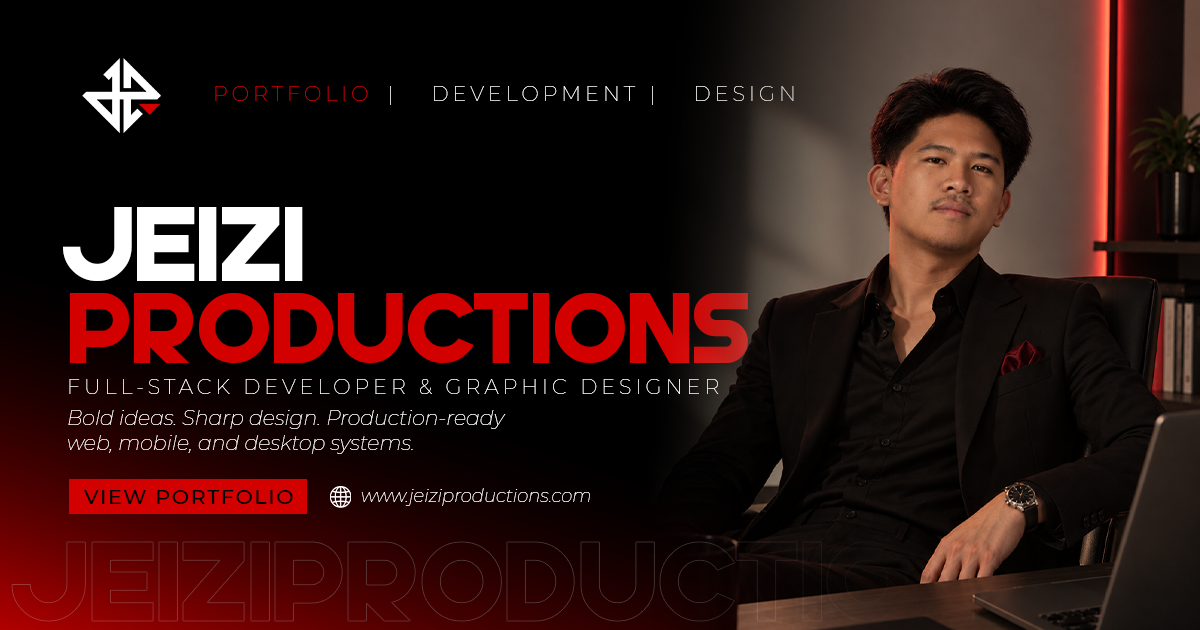
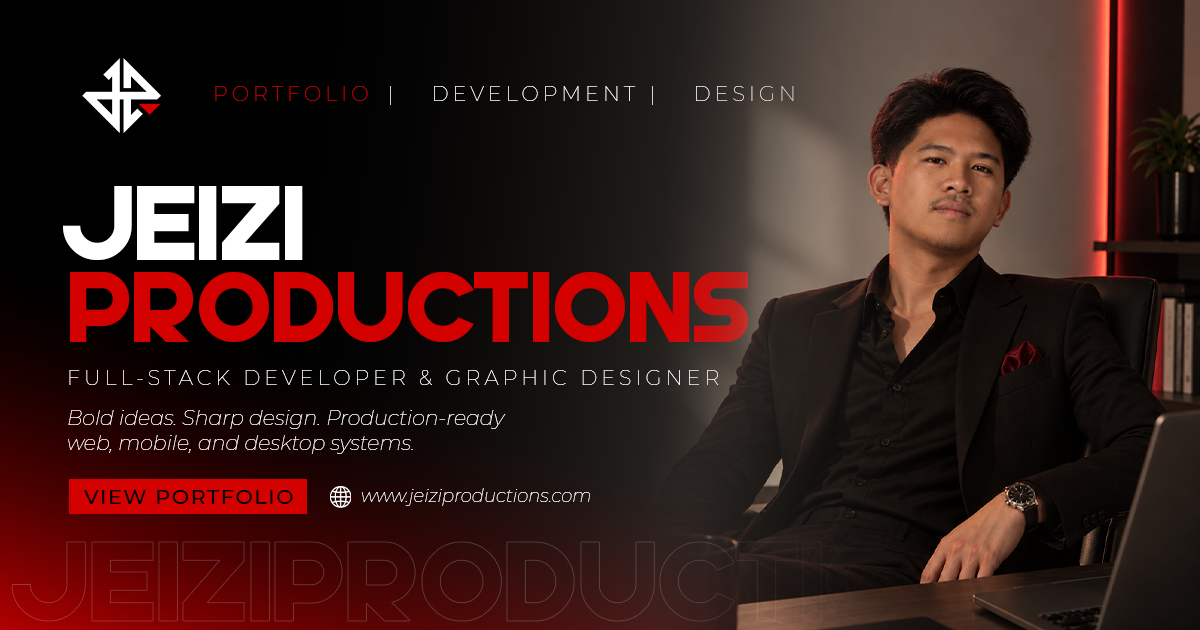
fix: update og image and anchor hero outline to bottom-0

Changed region(s): [[0.0308, 0.0, 0.74, 1.0]]

diff --git a/components/HeroOutlineTypewriter.tsx b/components/HeroOutlineTypewriter.tsx
@@ -62,7 +62,7 @@ export default function HeroOutlineTypewriter() {
 
   return (
     <div
-      className="pointer-events-none absolute bottom-4 left-6 z-0 max-w-[92vw] overflow-hidden select-none sm:bottom-6 sm:left-8 md:bottom-8 md:left-10 lg:bottom-10 lg:left-10"
+      className="pointer-events-none absolute bottom-0 left-6 z-0 max-w-[95vw] overflow-hidden select-none md:left-10"
       aria-hidden="true"
     >
       <span className="text-outline font-display text-[clamp(2.5rem,9.5vw,10.5rem)] font-bold uppercase leading-none tracking-tight whitespace-pre">

diff --git a/docs/harness/HANDOFF.md b/docs/harness/HANDOFF.md
@@ -2,8 +2,8 @@
 
 HANDOFF_VERSION: 1
 UPDATED_AT: 2026-10-03
-AUDITED_COMMIT: 537d1a5
-CURRENT_HEAD: 537d1a5
+AUDITED_COMMIT: 6d411b7
+CURRENT_HEAD: 6d411b7
 STATE: READY
 
 ## PROFESSIONAL IDENTITY HIERARCHY
@@ -13,48 +13,44 @@ STATE: READY
 - BRAND: Jeizi Productions
 - ROLE: Full-Stack Developer & Graphic Designer
 - EMAIL: johnchristopherkingzamora@gmail.com
-- SOCIAL PREVIEW: public/og-jeizi.png (1200x630, 424.94 KB)
+- SOCIAL PREVIEW: public/og-jeizi.png (1200x630, 453.13 KB)
 - PRODUCTION OG URL: https://jeiziproductions.com/og-jeizi.png
 
 ## CURRENT STATUS
 
-1. NAVIGATION SECTION POSITIONING:
+1. HERO OUTLINED TYPEWRITER POSITIONING:
+   - Target: `HeroOutlineTypewriter.tsx` (thin outlined decorative typography spelling "JEIZI PRODUCTIONS").
+   - Position: Anchored flush to the bottom edge of the Hero (`bottom-0 left-6 md:left-10 max-w-[95vw] overflow-hidden select-none z-0`) so it occupies the lowest visual layer with zero bottom gap.
+
+2. NAVIGATION SECTION POSITIONING:
    - Implementation: Reusable `scrollToSection` helper in `lib/scroll.ts` integrated into `Navbar.tsx`.
    - Behavior: Compact sections (About, Contact) are vertically centered within the viewport with comfortable fixed navbar clearance. Tall content streams (Work) are top-aligned right below the navbar.
    - Inner Content Targeting: Inner wrappers marked with `data-section-content` ensure padding inside sections does not push content off-center or create empty top gaps.
-   - Hash & URL State: Updates URL hash cleanly via `pushState` and handles direct visit landing (e.g. `/#about`, `/#contact`) as well as `popstate`/`hashchange`.
-   - Reduced Motion: Respects `prefers-reduced-motion: reduce` with immediate jump instead of smooth animation.
-   - Mobile: Closes mobile drawer immediately upon selection and positions target section cleanly without body scroll locking.
 
-2. OPEN GRAPH & SOCIAL PREVIEW:
+3. OPEN GRAPH & SOCIAL PREVIEW:
    - Asset: `public/og-jeizi.png` (1200x630, 424.94 KB, 1.91:1 ratio) tracked in Git.
-   - Metadata: `metadataBase: new URL("https://jeiziproductions.com")` with complete Open Graph (`og:title`, `og:description`, `og:url`, `og:site_name`, `og:image`, `og:type`) and Twitter Cards (`summary_large_image`, `twitter:image`).
-
-3. DEVELOPMENT SHOWCASE & DESIGN GALLERY ARCHITECTURE:
-   - Development showcase media: `public/dev/` (7 assets, 12.37 MB) tracked in Git and shipped with static export.
-   - Design gallery media: Untracked in Git (`.gitignore`, `.dockerignore`) and served from persistent Wasmer volume / Google Drive.
+   - Metadata: `metadataBase: new URL("https://jeiziproductions.com")` with complete Open Graph and Twitter Cards.
 
 ## VERIFIED FACTS
 
+- Hero Outlined Watermark: Anchored at `bottom-0`, flush with Hero bottom boundary.
 - Navigation: Section content is intentionally framed/centered without excess top gaps.
 - Open Graph: `https://jeiziproductions.com/og-jeizi.png` rendered across root HTML tags.
 - Static Export: 12 static HTML routes + `og-jeizi.png` verified in `out/`.
-- Deploy Audit: Static export passes all verification checks with clean `.dockerignore` context.
 
 ## READ NEXT
 
-- `components/Navbar.tsx`
-- `lib/scroll.ts`
-- `app/layout.tsx`
+- `components/Hero.tsx`
+- `components/HeroOutlineTypewriter.tsx`
 
 ## NEXT ACTION
 
-Commit and push to production Git branch for Wasmer deployment.
+Ready for visual testing.
 
 ## DO NOT REPEAT
 
-- Do not re-investigate section navigation positioning or scroll margin issues.
-- Do not re-investigate Open Graph image dimensions or metadata configuration.
+- Do not re-investigate Hero outline vertical positioning.
+- Do not re-investigate section navigation positioning or Open Graph metadata.
 
 ## LAST VERIFICATION
 

diff --git a/docs/harness/CHANGELOG.md b/docs/harness/CHANGELOG.md
@@ -3,6 +3,20 @@
 Append one compact entry per completed coding task. Newest entry first.
 Do not copy raw logs.
 
+## 2026-10-03 — Hero Outlined Typewriter Bottom-0 Edge Anchoring
+
+**Goal:** Anchor the large outlined "JEIZI PRODUCTIONS" decorative typewriter flush to the very bottom boundary of the Hero (`bottom: 0`) to eliminate unwanted empty vertical space below it.
+
+**Changed:** `components/HeroOutlineTypewriter.tsx`, `docs/harness/HANDOFF.md`, `docs/harness/CHANGELOG.md`.
+
+**Result:**
+- Updated `HeroOutlineTypewriter.tsx` container class to `pointer-events-none absolute bottom-0 left-6 z-0 max-w-[95vw] overflow-hidden select-none md:left-10`.
+- Preserved all typography scale (`text-[clamp(2.5rem,9.5vw,10.5rem)]`), thin outline styling (`text-outline`), and looping typewriter sequence without horizontal page overflow.
+
+**Verified:** `npm run harness:status` ✅; `npm run verify` ✅ (0 errors, 0 warnings); `npm run build` ✅ (12 static pages generated); `npm run verify:static` ✅ (all 12 routes verified).
+
+**Handoff:** `docs/harness/HANDOFF.md` updated.
+
 ## 2026-10-03 — Section Navigation Viewport Centering & Open Graph Social Preview
 
 **Goal:** Fix homepage section navigation so clicking `#about`, `#contact`, `#services`, `#work` frames target content intentionally around the viewport center (eliminating huge empty top gaps), and configure `public/og-jeizi.png` as the production Open Graph and Twitter sharing image for `https://jeiziproductions.com`.
